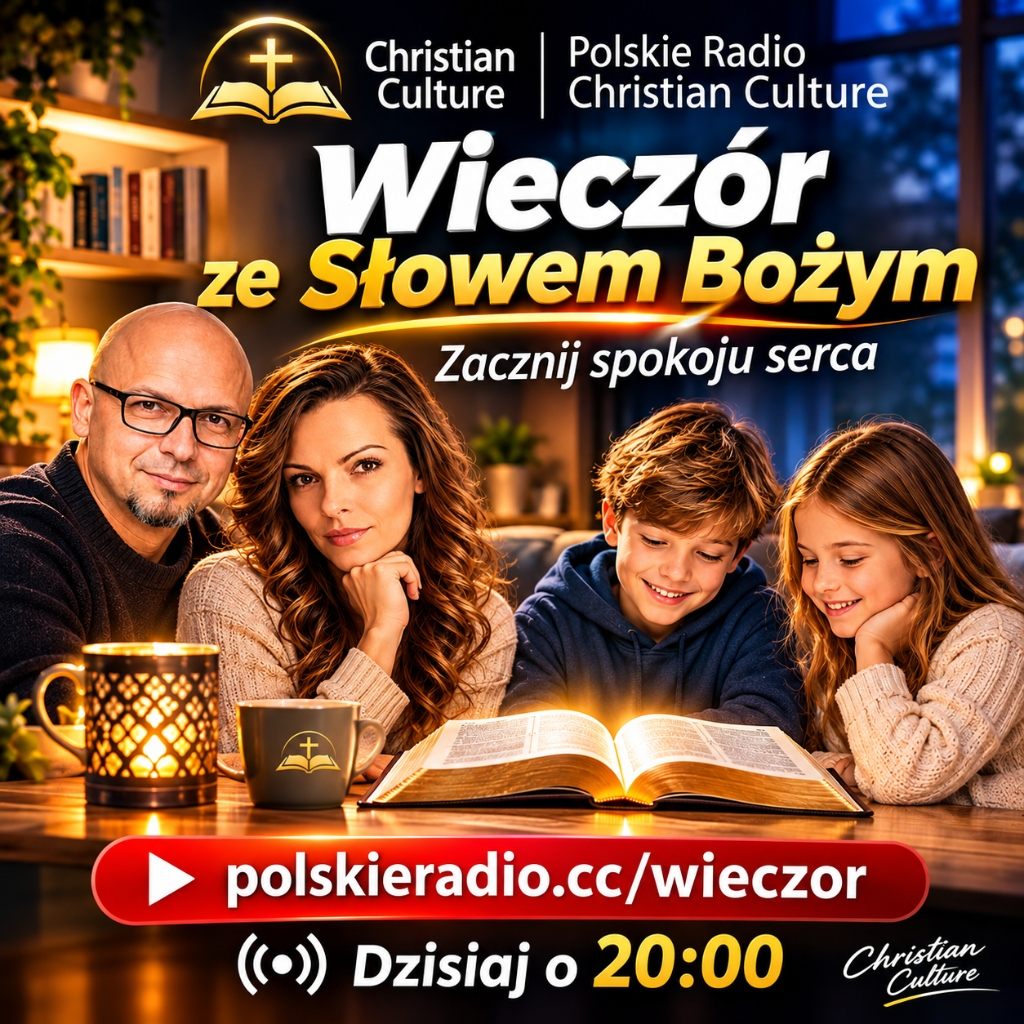
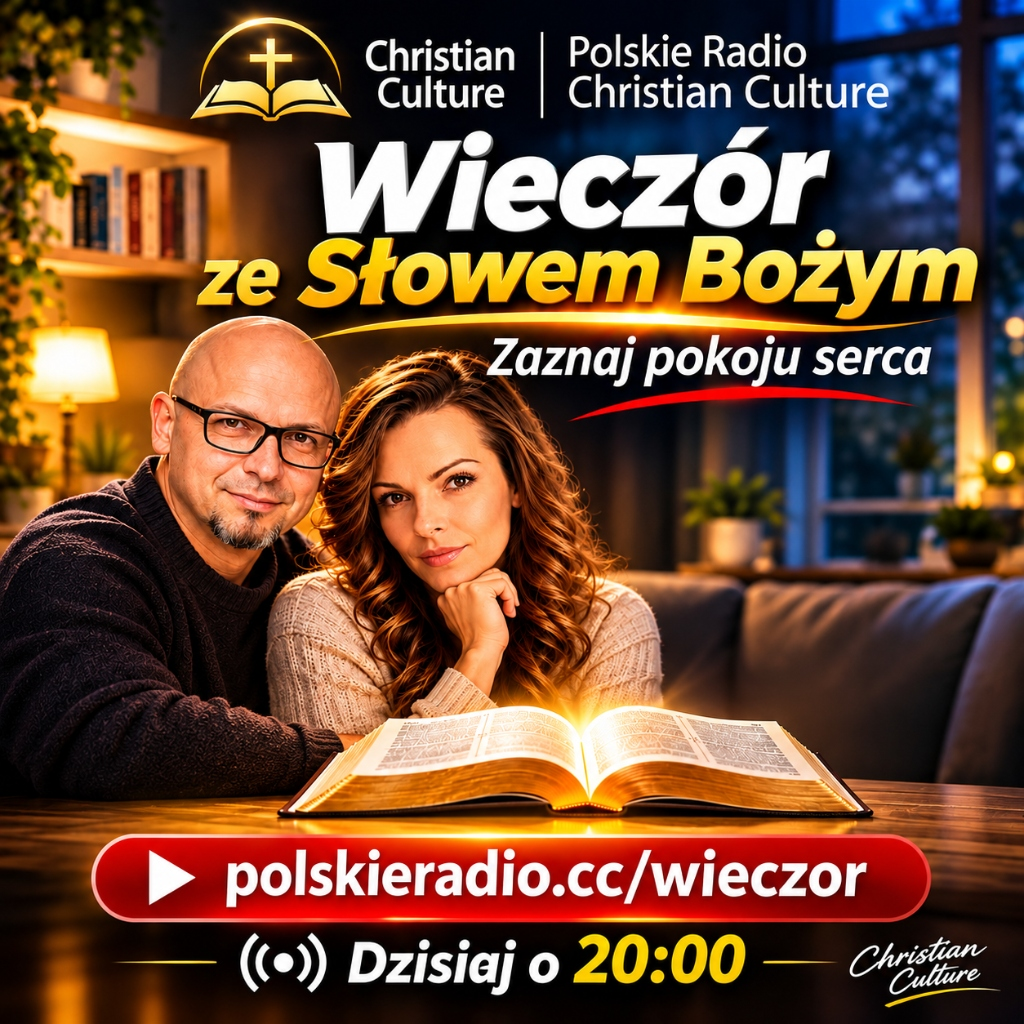
fix: continuous seamless top ticker marquee and updated proper promo graphic

diff --git a/wieczor-ze-slowem-bozym-live.html b/wieczor-ze-slowem-bozym-live.html
@@ -158,11 +158,22 @@
             align-items: center;
         }
 
-        /* Bardzo spokojna, czytelna prędkość przewijania dla osób starszych (170s) */
-        .top-ticker-content {
-            display: inline-block;
+        /* Płynny, nieprzerwany pasek ciągły (Seamless Continuous Marquee) - tekst płynie natychmiast, bez żadnej pustki */
+        .top-ticker-inner {
+            display: inline-flex;
             white-space: nowrap;
-            animation: scrollMarquee 170s linear infinite;
+            animation: continuousTicker 160s linear infinite;
+            will-change: transform;
+        }
+
+        .top-ticker-inner:hover {
+            animation-play-state: paused;
+        }
+
+        .top-ticker-group {
+            display: inline-flex;
+            align-items: center;
+            white-space: nowrap;
             font-size: 25px;
             font-weight: 700;
             letter-spacing: 0.8px;
@@ -170,11 +181,7 @@
             text-shadow: 0 2px 8px rgba(0,0,0,0.8);
         }
 
-        .top-ticker-content:hover {
-            animation-play-state: paused;
-        }
-
-        .top-ticker-content span {
+        .top-ticker-group span {
             display: inline-block;
             margin-right: 70px;
         }
@@ -195,9 +202,9 @@
             font-weight: 800;
         }
 
-        @keyframes scrollMarquee {
-            0% { transform: translateX(100%); }
-            100% { transform: translateX(-100%); }
+        @keyframes continuousTicker {
+            0% { transform: translateX(0); }
+            100% { transform: translateX(-50%); }
         }
 
         /* ───────────────────────────────────────────────────────────
@@ -378,15 +385,27 @@
             </div>
             <div class="top-ticker-divider"></div>
             <div class="top-ticker-track">
-                <div class="top-ticker-content" id="ticker-text">
-                    <span><strong class="ticker-sig">J 14,27</strong><span class="ticker-sep">•</span>„Pokój zostawiam wam, pokój mój daję wam. Nie tak jak daje świat, Ja wam daję. Niech się nie trwoży serce wasze ani się nie lęka.”</span>
-                    <span><strong class="ticker-sig">Flp 4,6-7</strong><span class="ticker-sep">•</span>„O nic się zbytnio nie troskajcie, ale we wszystkim w modlitwie i błaganiu z dziękczynieniem powierzcie prośby wasze Bogu.”</span>
-                    <span><strong class="ticker-sig">WSPARCIE MISJI</strong><span class="ticker-sep">•</span>Pomóż nam budować niezależne chrześcijańskie media w Polsce: <strong class="ticker-highlight">https://polskieradio.cc/wspieraj</strong> • Szybki BLIK: <strong>537 137 043</strong></span>
-                    <span><strong class="ticker-sig">Mt 11,28</strong><span class="ticker-sep">•</span>„Pójdźcie do Mnie wszyscy, którzy utrudzeni i obciążeni jesteście, a Ja wam dam ukojenie.”</span>
-                    <span><strong class="ticker-sig">Iz 26,3</strong><span class="ticker-sep">•</span>„Temu, którego myśl jest stała, zachowujesz pokój, pokój, bo tobie zaufał.”</span>
-                    <span><strong class="ticker-sig">PORTAL LUMINA</strong><span class="ticker-sep">•</span>Dołącz do wolnej społeczności wierzących: <strong class="ticker-highlight">https://polskieradio.cc/lumina</strong> • Dobre treści bez zgiełku</span>
-                    <span><strong class="ticker-sig">Ps 4,9</strong><span class="ticker-sep">•</span>„W pokoju się położę i zaraz zasnę, bo Ty sam, Panie, sprawiasz, że bezpiecznie mieszkam.”</span>
-                    <span><strong class="ticker-sig">BIBLIA INTERLINEARNA</strong><span class="ticker-sep">•</span>Odkryj oryginalny tekst Pisma Świętego z kodami Stronga: <strong class="ticker-highlight">https://polskieradio.cc/mojabiblia</strong></span>
+                <div class="top-ticker-inner" id="ticker-text">
+                    <div class="top-ticker-group">
+                        <span><strong class="ticker-sig">J 14,27</strong><span class="ticker-sep">•</span>„Pokój zostawiam wam, pokój mój daję wam. Nie tak jak daje świat, Ja wam daję. Niech się nie trwoży serce wasze ani się nie lęka.”</span>
+                        <span><strong class="ticker-sig">Flp 4,6-7</strong><span class="ticker-sep">•</span>„O nic się zbytnio nie troskajcie, ale we wszystkim w modlitwie i błaganiu z dziękczynieniem powierzcie prośby wasze Bogu.”</span>
+                        <span><strong class="ticker-sig">WSPARCIE MISJI</strong><span class="ticker-sep">•</span>Pomóż nam budować niezależne chrześcijańskie media w Polsce: <strong class="ticker-highlight">https://polskieradio.cc/wspieraj</strong> • Szybki BLIK: <strong>537 137 043</strong></span>
+                        <span><strong class="ticker-sig">Mt 11,28</strong><span class="ticker-sep">•</span>„Pójdźcie do Mnie wszyscy, którzy utrudzeni i obciążeni jesteście, a Ja wam dam ukojenie.”</span>
+                        <span><strong class="ticker-sig">Iz 26,3</strong><span class="ticker-sep">•</span>„Temu, którego myśl jest stała, zachowujesz pokój, pokój, bo tobie zaufał.”</span>
+                        <span><strong class="ticker-sig">PORTAL LUMINA</strong><span class="ticker-sep">•</span>Dołącz do wolnej społeczności wierzących: <strong class="ticker-highlight">https://polskieradio.cc/lumina</strong> • Dobre treści bez zgiełku</span>
+                        <span><strong class="ticker-sig">Ps 4,9</strong><span class="ticker-sep">•</span>„W pokoju się położę i zaraz zasnę, bo Ty sam, Panie, sprawiasz, że bezpiecznie mieszkam.”</span>
+                        <span><strong class="ticker-sig">BIBLIA INTERLINEARNA</strong><span class="ticker-sep">•</span>Odkryj oryginalny tekst Pisma Świętego z kodami Stronga: <strong class="ticker-highlight">https://polskieradio.cc/mojabiblia</strong></span>
+                    </div>
+                    <div class="top-ticker-group" aria-hidden="true">
+                        <span><strong class="ticker-sig">J 14,27</strong><span class="ticker-sep">•</span>„Pokój zostawiam wam, pokój mój daję wam. Nie tak jak daje świat, Ja wam daję. Niech się nie trwoży serce wasze ani się nie lęka.”</span>
+                        <span><strong class="ticker-sig">Flp 4,6-7</strong><span class="ticker-sep">•</span>„O nic się zbytnio nie troskajcie, ale we wszystkim w modlitwie i błaganiu z dziękczynieniem powierzcie prośby wasze Bogu.”</span>
+                        <span><strong class="ticker-sig">WSPARCIE MISJI</strong><span class="ticker-sep">•</span>Pomóż nam budować niezależne chrześcijańskie media w Polsce: <strong class="ticker-highlight">https://polskieradio.cc/wspieraj</strong> • Szybki BLIK: <strong>537 137 043</strong></span>
+                        <span><strong class="ticker-sig">Mt 11,28</strong><span class="ticker-sep">•</span>„Pójdźcie do Mnie wszyscy, którzy utrudzeni i obciążeni jesteście, a Ja wam dam ukojenie.”</span>
+                        <span><strong class="ticker-sig">Iz 26,3</strong><span class="ticker-sep">•</span>„Temu, którego myśl jest stała, zachowujesz pokój, pokój, bo tobie zaufał.”</span>
+                        <span><strong class="ticker-sig">PORTAL LUMINA</strong><span class="ticker-sep">•</span>Dołącz do wolnej społeczności wierzących: <strong class="ticker-highlight">https://polskieradio.cc/lumina</strong> • Dobre treści bez zgiełku</span>
+                        <span><strong class="ticker-sig">Ps 4,9</strong><span class="ticker-sep">•</span>„W pokoju się położę i zaraz zasnę, bo Ty sam, Panie, sprawiasz, że bezpiecznie mieszkam.”</span>
+                        <span><strong class="ticker-sig">BIBLIA INTERLINEARNA</strong><span class="ticker-sep">•</span>Odkryj oryginalny tekst Pisma Świętego z kodami Stronga: <strong class="ticker-highlight">https://polskieradio.cc/mojabiblia</strong></span>
+                    </div>
                 </div>
             </div>
         </div>
